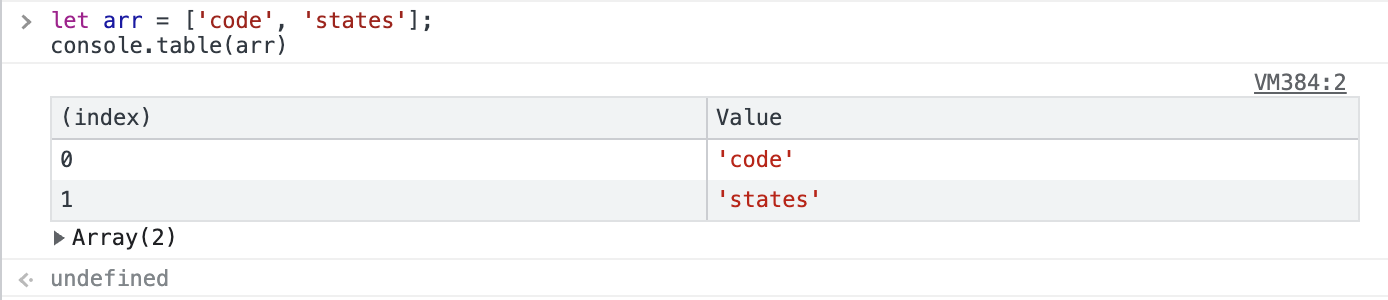
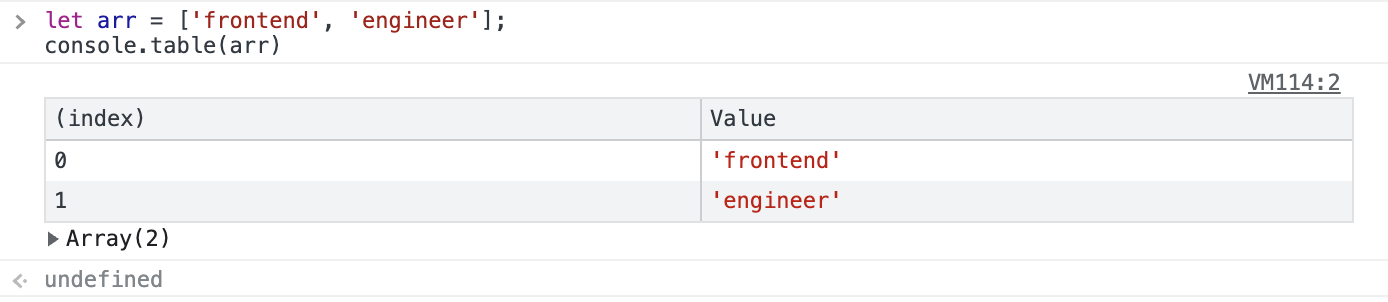
fix: update array basic concept

diff --git a/JavaScript/array.md b/JavaScript/array.md
@@ -1,8 +1,8 @@
 ### ****Chapter1-1. 배열 기초****
 
 1. **배열은 순서(index)가 있는 값(element)**
-    1. 순서: 1이 아닌 0부터 번호를 매김
-    2. 대괄호를 이용해 배열을 만들고, 각각의 원소(element)에는 쉼표로 구분해줌 
+    1. 순서(index)가 있는 값(element)의 집합이다.
+    2. 이때, 순서는 1이 아니라 0부터 번호를 매기며, 대괄호 [ ]를 이용해 배열을 만들고, 각각의 원소(element)는 쉼표(,)로 구분해 준다.
 2. **예시 코드**
     1. 인덱스 값 구하기
         
@@ -13,21 +13,26 @@
         
         let myNumber = [73, 98, 86, 61, 96];
         // myNumber 라는 배열의 5번째 인덱스 값은?
-        myNumber[5]; // undefined
+        myNumber[5]; // undefined : 이 배열은 4번째 인덱스 값 까지 밖에 없다.
+        ```
         
+    2. 배열 안에 있는 배열의 인덱스 값 구하기
+        
+        ```jsx
         let myNumber = [[13, 30], [73, 8], [44, 17]];
         // myNumber 라는 배열의 1번째 인덱스 값은?
-        myNumber[1]; // [73, 8]
+        myNumber[1]; // [73, 8]: [13] 아님 주의!
+        
+        let myNumber = [[13, 30], [73, 8], [44, 17]];
         // myNumber 라는 배열의 1번째 인덱스값의 0번째 인덱스의 값은?
         myNumber[1]; // 73
         
-        let myNumber = [[13, 30],[73, 8],[44, 17] ]; // undefined
-        myNumber // (3) [Array(2), Array(2), Array(2)]
-        myNumber[1] // (2) [73, 8]
-        myNumber[1][0] // 73
+        let myNumber = [[13, 30], [73, 8],[44, 17]]; 
+        myNumber[1]; // [73, 8]
+        myNumber[1][0]; // 73: 이렇게 대괄호와 대괄호를 붙여서도 나타낼 수 있다.
         ```
         
-    2. 배열로 길이 알아내기
+    3. 배열로 길이 알아내기
         
         ```jsx
         let myNumber = [73, 98, 86, 61];
@@ -35,15 +40,17 @@
         myNumber.length; // 4: 온점을 활용해 변수가 가지고 있는 속성에 접근 가능
         ```
         
-    3. 배열로 **맨 뒤에** 요소 추가/삭제 하기
+    4. 배열로 **맨 뒤에** 요소 추가/삭제 하기
+        
+        온점(.)으로 관련된 명령(method: 흔히 말하는 메소드)도 실행 가능하며, 명령을 실행할 때는 함수를 실행하듯 괄호 열고 닫기 형태로 실행할 수 있다.
         
         ```jsx
         ley myNumber = [73, 98, 86, 61];
         
-        // myNumber 배열 **끝에** 96 이라는 값을 추가하려면
-        myNumber.push(96); // 온점을 활용해 관련된 명령(method)도 실행 가능하며, 명령 실행 시 함수를 실행하듯 괄호 열고 닫기 형태로 실행
+        // myNumber 배열 끝에 96 이라는 값을 '추가'하려면
+        myNumber.push(96); 
         
-        // myNumber 배열 **마지막 값**을 삭제하려면
+        // myNumber 배열 마지막 값을 '삭제'하려면
         myNumber.pop();
         ```
         
@@ -55,23 +62,26 @@
         
         ```jsx
         let myNum = [73, 98, 86, 61];
-        for (let n = 0; n < myNum.length; n++) {
+        for (let n = 0; n < myNum.length; n++) { // for문을 모르신다면 복습하고 오시라..
         	console.log(myNum[n]);
         }
         ```
         
     2. 배열의 모든 요소를 누적해서 더하기
         
+        이때, 처음에 0 할당을 하지 않으면 undefined가 나오고, 초기값을 넣지 않은 상태로 아래의 계산을 쭉 진행하면 NaN이 나올 것이다.
+        
         ```jsx
         let myNum = [10, 20, 40, 10];
-        let sum = 0; // 0 할당 안하면 undefined 되고 초기값 안 넣어준 상태로 계산하면 NaN 나옴
+        let sum = 0; 
         
-        for(let n = 0; n < **myNum.length**; n++) {
-        // sum = **0** + 10 -> sum + myNum[0]
+        for(let n = 0; n < myNum.length; n++) {
+        // sum = 0 + 10 -> sum + myNum[0]
         // sum = 10 + 20 -> sum + myNum[1]
         // sum = 30 + 40 -> sum + myNum[2]
-        // sum = 70 + 10 -> sum + myNum[3]
-        **sum = sum + myNum[n]**;
+        // sum = 70 + 10 -> sum + myNum[3] -> 말하자면 이런 형태이니
+        
+        sum = sum + myNum[n]; // sum은 이런 식으로 계산하자
         }
         console.log(sum); // 80
         ```
@@ -80,53 +90,75 @@
 ### ****Chapter1-3. 배열 메소드****
 
 1. **메소드 종류와 예시 코드**
-    1. 특정 값이 배열인지 아닌지 판별할 수 있는 `Array.isArray`
+    1. **Array.isArray** : 특정 값이 배열인지 아닌지 판별하기
         
         ```jsx
-        let words = ['피', '땀', '눈물'];
-        typeof [1, 2, 3] // object
+        let words = ['프론트', '엔드', '개발자'];
+        typeof words // "object" : 문자열로 이루어진 words 라는 배열의 type은 object임
         
-        Array.isArray('문자열') // false
-        Array.isArray(123) // false
+        typeof [1, 2, 3] // "object" : 숫자로 이루어진 배열의 type은 object임
         
-        Array.isArray(words) // true
-        Array.isArray([]) // true
+        Array.isArray('문자열') // false : 문자열은 배열이 아님
+        Array.isArray(123) // false : 숫자는 배열이 아님
+        
+        Array.isArray(words) // true : words은 배열 형태가 맞음
+        Array.isArray([]) // true : 대괄호는 배열을 의미하므로 배열이 맞음
         ```
         
-    2. 배열의 요소를 push, pop 활용해 추가 및 삭제하기
+    2. **push, pop** : 배열의 요소를 추가하거나, 삭제하기
         
         ```jsx
-        let arr = ['code', 'states'];
+        let arr = ['frontend', 'engineer'];
         console.table(arr) // Array(2)
         
-        arr.push('pre') // **맨 뒤**에 요소 추가
+        arr.push('ella') // 맨 뒤에 'pre' 라는 요소 추가
         console.table(arr) // Array(3)
         
-        arr.pop() // **맨 뒤**의 요소 제외
+        arr.pop() // 맨 뒤의 요소 제외
         console.table(arr) // Array(2)
         
-        arr.shift() // **맨 앞**의 요소 제외
+        arr.shift() // 맨 앞의 요소 제외
         console.table(arr) // Array(1)
         
-        arr.unshift('creative') // **맨 앞에** 요소 추가
+        arr.unshift('good') // 맨 앞에 'good' 라는 요소 추가
         console.table(arr) // Array(2)
         ```
         
-        ![array.png](../Images/array.png)
+        ![array.png](https://s3-us-west-2.amazonaws.com/secure.notion-static.com/e05bb1f0-2bad-4295-a8f1-fc6438c9c56f/array.png)
         
-    3. 특정 값이 배열에 포함되어 있는지, 인덱스 값이 무엇인지 알 수 있는 `indexOf`
+    3. **indexOf** : 특정 값이 배열에 포함되어 있는지 확인하고, 인덱스 값을 알아내기
         
         ```jsx
-        let word = ['Hello', 'world', 'everyone'];
+        let word = ['front', 'end', 'engineer'];
         
-        word.indexOf('world') // 1 : 해당 elemment가 들어있는 **인덱스 값**
-        word.indexOf('everyone') // 2
-        word.indexOf('what') // -1 : 없는 단어
+        word.indexOf('end') // 1 : 해당 elemment가 들어있는 인덱스 값
+        word.indexOf('engineer') // 2 : engineer의 인덱스 값
+        word.indexOf('ella') // -1 : 없는 단어이므로 -1 표시됨
         
-        word.indexOf('world') !== -1 // true: 단어가 있다는 뜻
-        word.indexOf('what') !== -1 // false: 단어가 없다는 뜻, -1이랑 같으니까
+        word.indexOf('front') !== -1 // true : -1이 아니냐? 즉, 단어가 있는거 맞냐? -> 있다(true)
+        word.indexOf('ella') !== -1 // false : -1이 아니냐? 즉, 단어가 있는거 맞냐? -> 없다(false)
         
-        word.indexOf('WORLD') // -1 : 대소문자를 구분하니 주의
+        word.indexOf('FRONT') // -1 : 대소문자를 구분하니 주의
         ```
         
-    4. 특정 값이 배열에 포함되어 있는지 확인할 수 있는 `inclundes`
+    4. **includes** : 특정 값이 배열에 포함되어 있는지 확인 하기
+        
+        함수를 활용하거나, includes 메소드를 활용하는 두 가지 방법이 있다.
+        
+        ```jsx
+        // 1. 함수를 활용하는 방법
+        // 특정한 배열에 찾고자하는 element 포함 여부를 false/true로 반환하는 함수
+        // hasElement(배열, 찾으려는 엘리먼트) -> true or false
+        
+        function hasElement(arr, element) {
+        	let isPresent = arr.indexOf(element) !== -1; // 찾으려는 element가 있다면 (= 없지 않다면)
+        	return isPresent; // 해당 값을 리턴하라
+        }
+        hasElement(words, 'end') // true
+        hasElement(words, 'ella') // false
+        
+        // 2. 메소드를 활용하는 방법
+        let words = ['front', 'end', 'engineer'];
+        words.includes('end') // true
+        words.includes('ella') // false
+        ```
